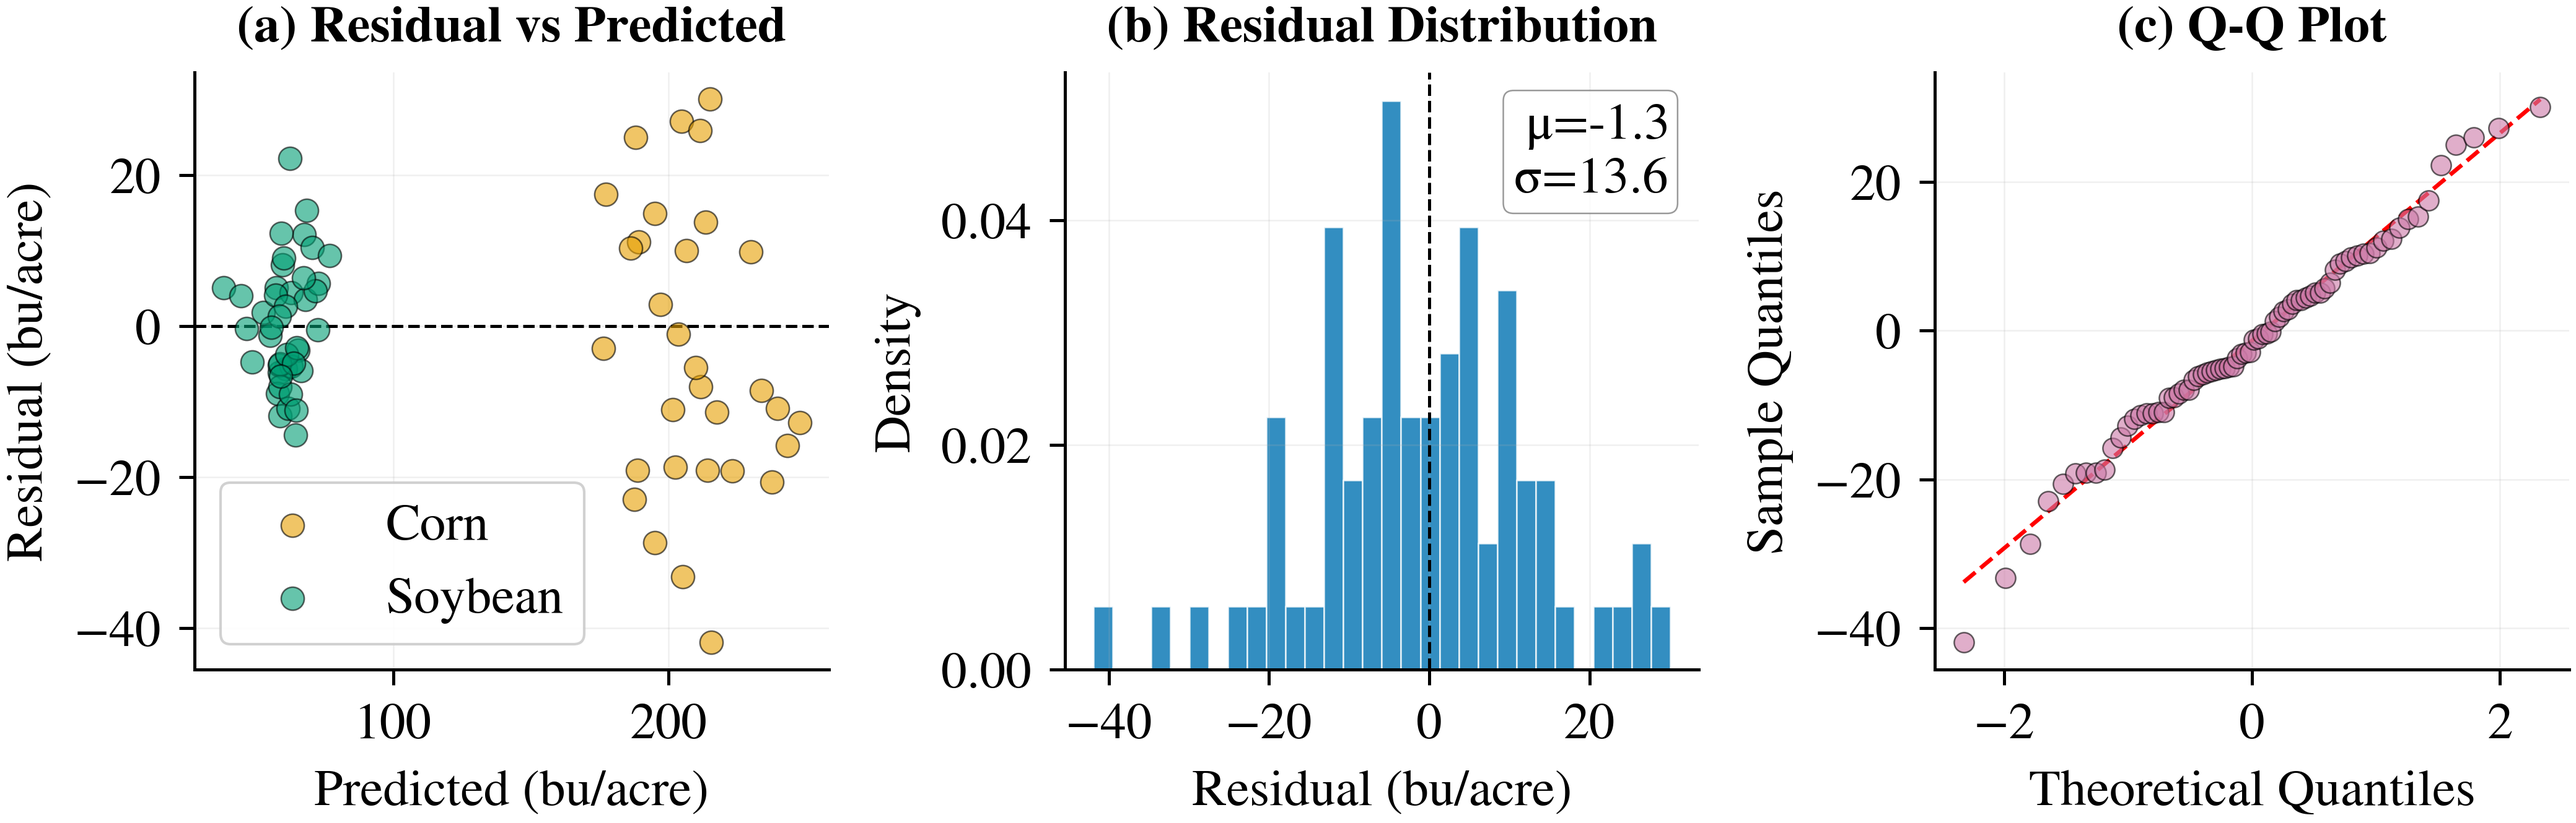
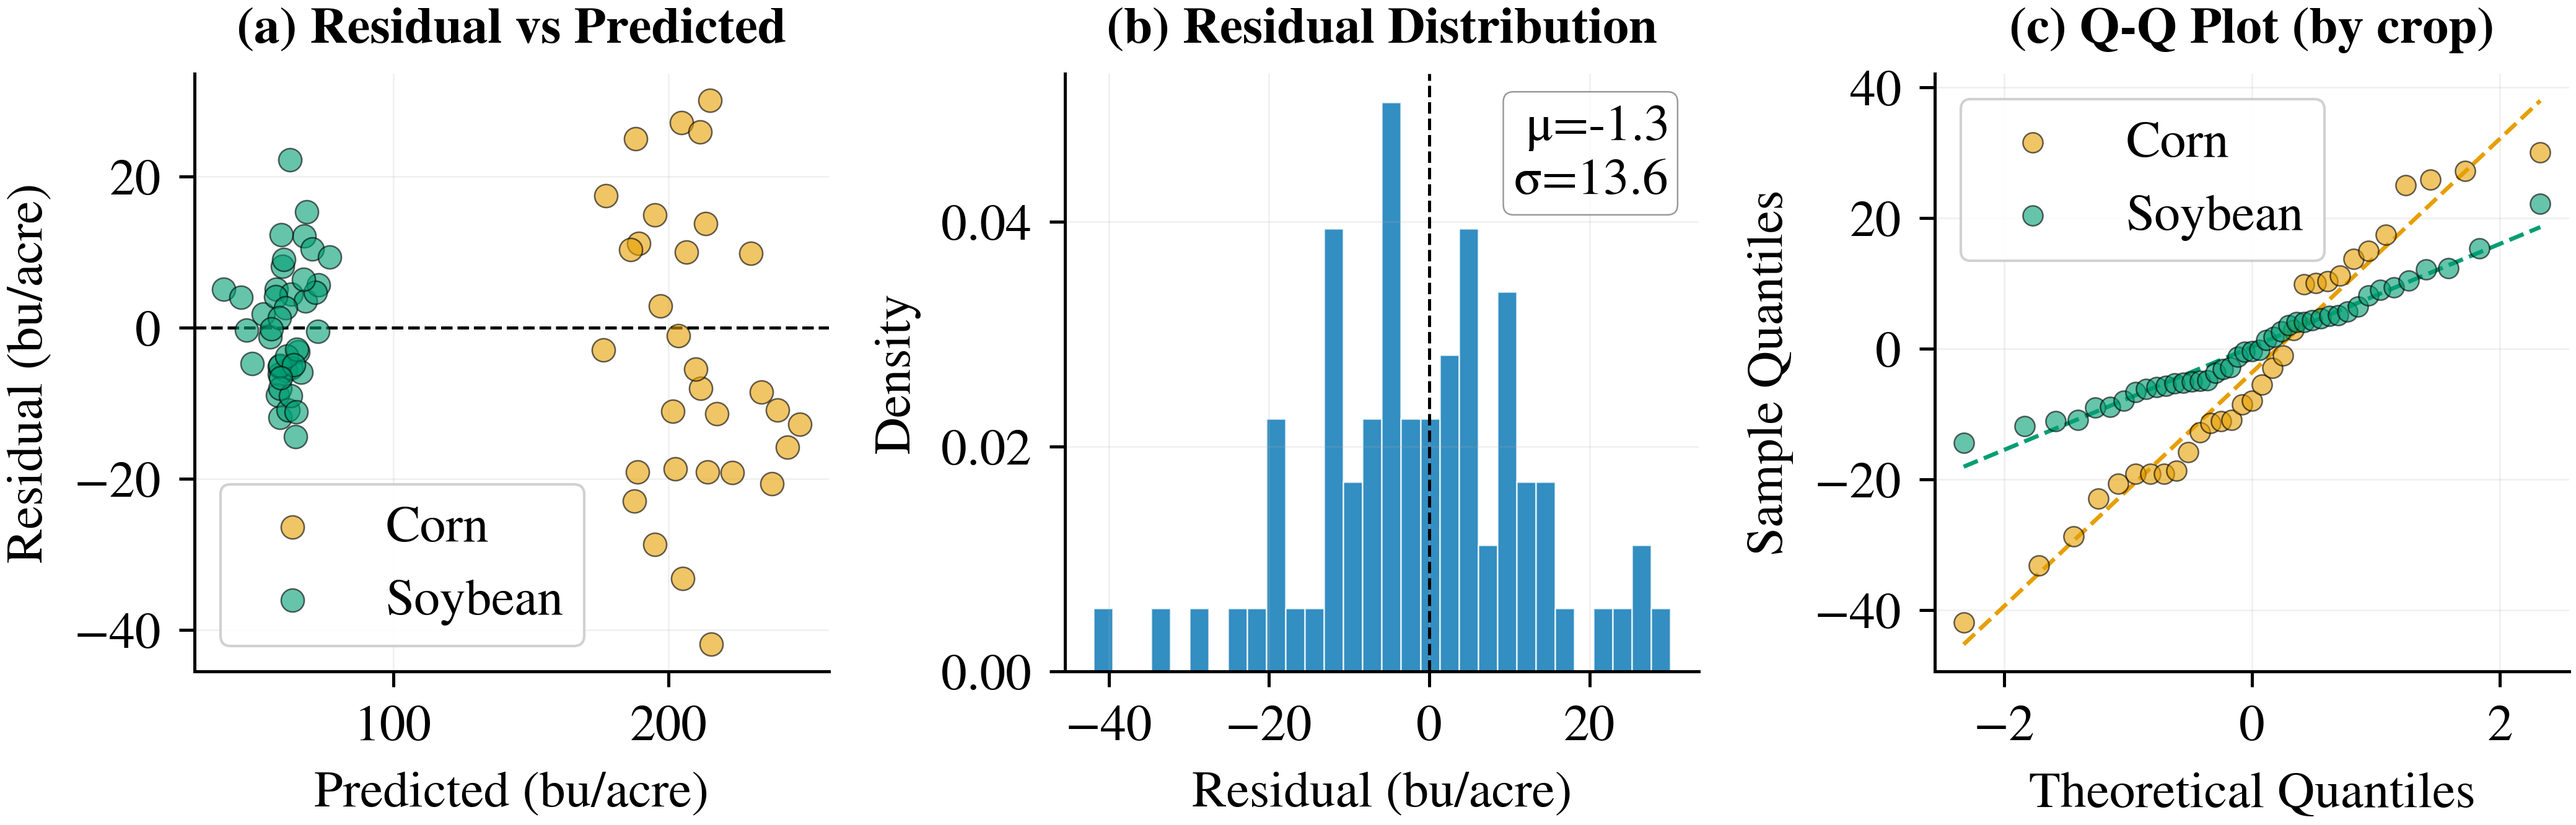
DEV: Updated Q-Q plot with crop-specific lines

diff --git a/generate_journal_figures.py b/generate_journal_figures.py
@@ -1530,19 +1530,26 @@ def fig17_residual_analysis():
             bbox=dict(boxstyle='round,pad=0.2', fc='white', alpha=0.8, ec='gray', lw=0.3))
     ax.grid(True, alpha=0.2, linewidth=0.3, zorder=0)
 
-    # (c) QQ-like: sorted residuals
+    # (c) QQ-like: sorted residuals, crop-specific
     ax = axes[2]
     from scipy import stats
-    sorted_res = np.sort(residuals)
-    theoretical_q = stats.norm.ppf(np.linspace(0.01, 0.99, len(sorted_res)))
-    ax.scatter(theoretical_q, sorted_res, alpha=0.6, s=15, color=ACCENT_PURPLE,
-               edgecolors='black', linewidths=0.3, zorder=3)
-    # Reference line
-    slope, intercept = np.polyfit(theoretical_q, sorted_res, 1)
-    ax.plot(theoretical_q, slope * theoretical_q + intercept, 'r--', linewidth=0.8, zorder=2)
+    crop_colors = {'Corn': CORN_COLOR, 'Soybean': SOYBEAN_COLOR}
+    for crop in ['Corn', 'Soybean']:
+        mask = crops == crop
+        crop_res = residuals[mask]
+        if len(crop_res) < 2:
+            continue
+        sorted_res = np.sort(crop_res)
+        theoretical_q = stats.norm.ppf(np.linspace(0.01, 0.99, len(sorted_res)))
+        ax.scatter(theoretical_q, sorted_res, alpha=0.6, s=15, color=crop_colors[crop],
+                   edgecolors='black', linewidths=0.3, label=crop, zorder=3)
+        # Reference line for each crop
+        slope, intercept = np.polyfit(theoretical_q, sorted_res, 1)
+        ax.plot(theoretical_q, slope * theoretical_q + intercept, '--', color=crop_colors[crop], linewidth=0.8, zorder=2)
     ax.set_xlabel('Theoretical Quantiles', fontsize=LABEL_SIZE)
     ax.set_ylabel('Sample Quantiles', fontsize=LABEL_SIZE)
-    ax.set_title('(c) Q-Q Plot', fontweight='bold', fontsize=TITLE_SIZE)
+    ax.set_title('(c) Q-Q Plot (by crop)', fontweight='bold', fontsize=TITLE_SIZE)
+    ax.legend(fontsize=LEGEND_SIZE, framealpha=0.9)
     ax.grid(True, alpha=0.2, linewidth=0.3, zorder=0)
 
 
